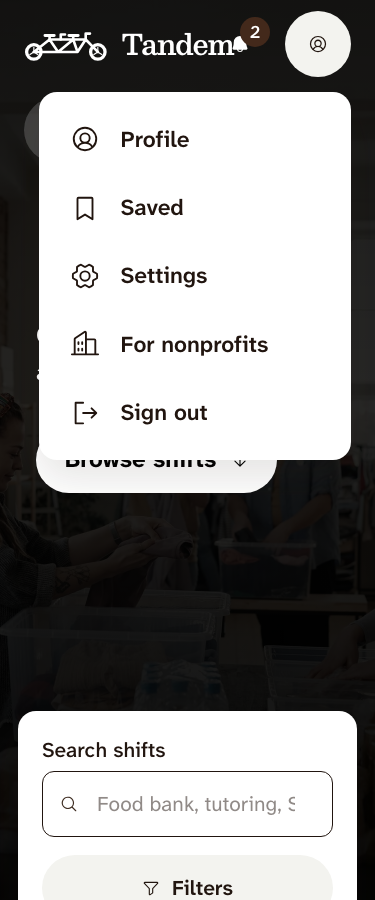
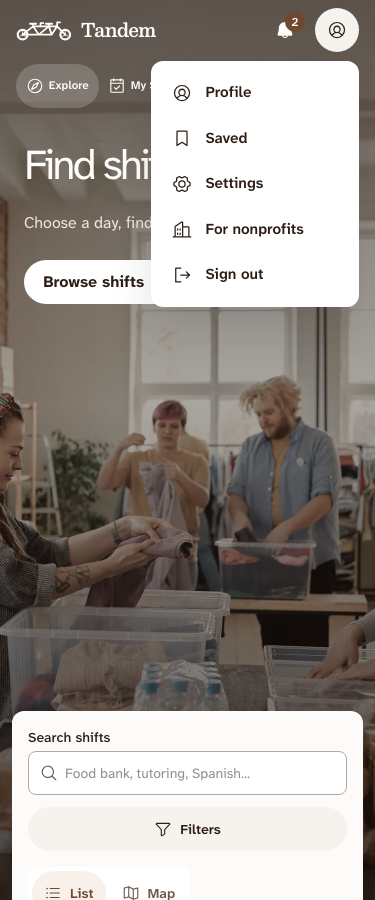
Keep account header clear at enlarged text

diff --git a/src/styles/app.css b/src/styles/app.css
@@ -196,7 +196,7 @@
 .site-footer__legal .site-footer__link { color: var(--hero-muted); font-size: 0.84rem; }
 @media (max-width: 46rem) {
   .site-footer__inner { grid-template-columns: minmax(0, 1fr); gap: 2rem; }
-  .site-footer__brand { max-width: 100%; gap: 0.6rem; font-size: clamp(1.9rem, 6vw, 2.5rem); white-space: normal; }
+  .site-footer__brand { max-width: 100%; flex-wrap: wrap; gap: 0.6rem; font-size: clamp(1.9rem, 6vw, 2.5rem); white-space: normal; }
   .site-footer__brand .tandem-bike { width: clamp(4.1rem, 17vw, 5.5rem); }
   .site-footer__content { gap: 2rem; }
 }
@@ -557,6 +557,11 @@
 @media (max-width: 40rem) {
   :root[data-text-size="125"] .site-nav__label,
   :root[data-text-size="150"] .site-nav__label { display: none; }
+  :root[data-text-size="150"] .site-header__brand { gap: 0.35rem; font-size: 1.05rem; }
+  :root[data-text-size="150"] .site-header__brand-icon { width: 2.4rem; }
+}
+@media (max-width: 23rem) {
+  :root[data-text-size="150"] .site-header__brand span { display: none; }
 }
 
 /* Backstop for reduced motion: also stops CSS animations that do not use tokens. */

diff --git a/src/layouts/AppLayout.tsx b/src/layouts/AppLayout.tsx
@@ -124,7 +124,7 @@ export const AppLayout = (): ReactElement => {
 
       <header className="site-header" data-condensed={condensed} data-home={isHome} data-scene="true">
         <div className="site-header__inner">
-          <Link to="/" className="site-header__brand">
+          <Link to="/" className="site-header__brand" aria-label={`${APP_NAME} home`}>
             <TandemBike className="site-header__brand-icon" />
             <span>{APP_NAME}</span>
           </Link>

diff --git a/docs/reviews/2026-10-29-shell-polish/README.md b/docs/reviews/2026-10-29-shell-polish/README.md
@@ -21,7 +21,7 @@ The old menu showed icon-only rows with blank space where text belonged. The new
 ## Interaction and accessibility
 
 - On the phone, keyboard Enter opens the account menu, Tab reaches Profile, Escape closes it and returns focus to the trigger, and an outside click closes it. The Settings row opens the Settings page. The bell opens its dialog and Escape closes it.
-- Text size 150%, high contrast, and reduced motion persisted after reload. At 375px, 768px, and 1440px, Settings, the account menu, and recommendations had no page-level horizontal overflow after the footer wordmark was reduced on narrow screens. [The 150% high-contrast footer](after-footer-contrast-375-settings.webp) and [recommendations](after-recommended-contrast-375.webp) remained legible.
+- Text size 150%, high contrast, and reduced motion persisted after reload. At 375px, 768px, and 1440px, Settings, the account menu, and recommendations had no page-level horizontal overflow after the footer wordmark was reduced on narrow screens. At 320px, the header uses its labelled bike link to leave space for the bell and account trigger. [The enlarged account menu](after-menu-contrast-320.webp), [footer](after-footer-contrast-375-settings.webp), and [recommendations](after-recommended-contrast-375.webp) remained legible.
 - Axe found no violations in the checked 375px Settings and open-menu states, or in the 375px high-contrast, 150%-text Settings and Explore states. The signed-out Settings route kept all five display controls available. The existing no-interests recommendation state still links to Profile.
 - Production build, token scan, and focused Profile, legal, route-head, and recommendation tests passed. No Firebase writes or changes to signup, roster, or kiosk behavior were needed.
 
